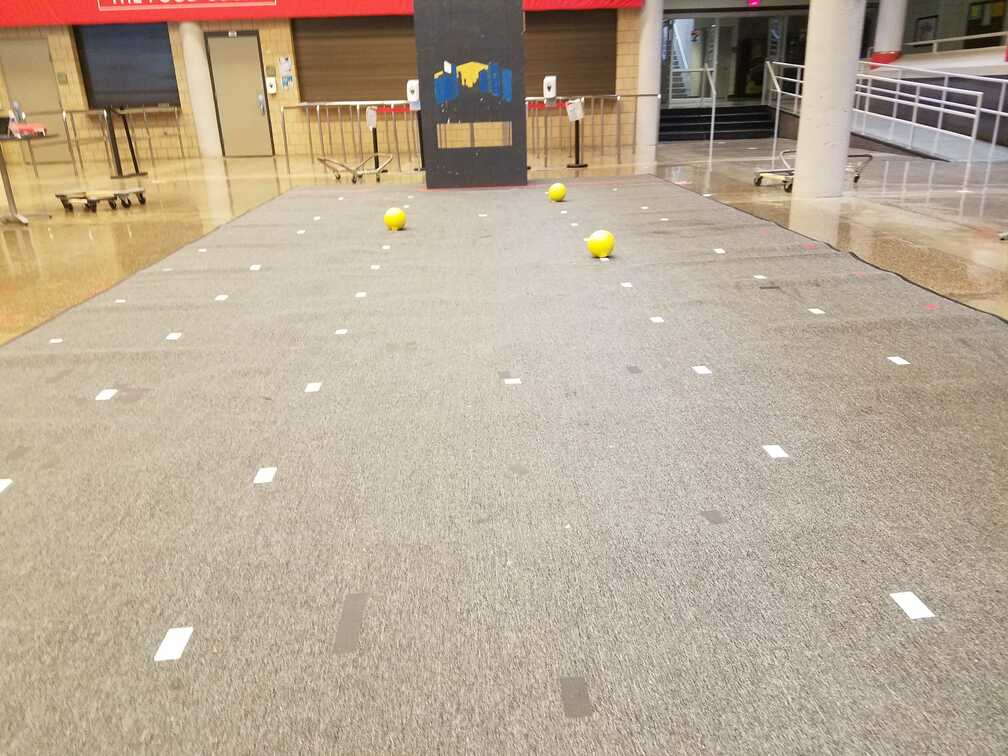
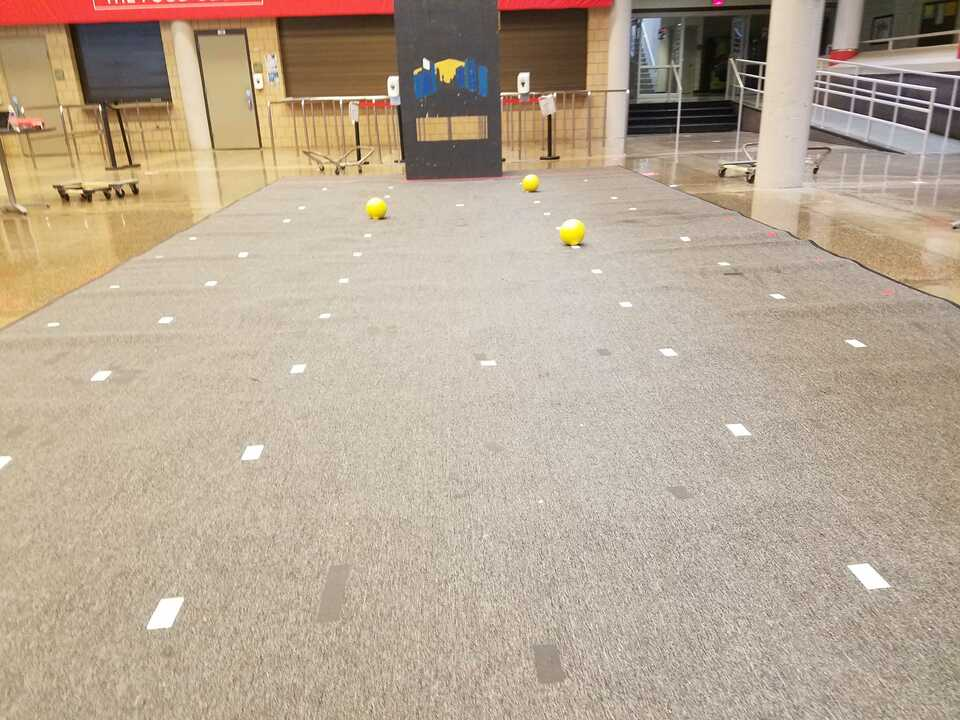
determine where the far balls are

Changed region(s): [[0.4375, 0.0917, 0.4688, 0.1222]]

diff --git a/testing_blob.py b/testing_blob.py
@@ -10,7 +10,7 @@ In the imread() line, use the IMAGE_NAME variable
 Then, run the program and press 'm' to predict the path
 '''
 #To find the predicted path, run the program and press 'm'
-IMAGE_NAME = 'from_robot.PNG'
+IMAGE_NAME = 'obj4.jpg'
 # path_options = [(479.89423077, 325.51442308), (619.56692913, 251.41994751), (408.97231834, 343.41176471), (523.62751678, 226.62080537)]
 path_options = blob_means
 
@@ -26,81 +26,105 @@ cv2.createTrackbar("UH", "Tracking", 255, 255, nothing)
 cv2.createTrackbar("US", "Tracking", 255, 255, nothing)
 cv2.createTrackbar("UV", "Tracking", 255, 255, nothing)
 
-# reading image
-img = cv2.imread(IMAGE_NAME, 1)
-hsv = cv2.cvtColor(img, cv2.COLOR_BGR2HSV)
+while True:
+    # reading image
+    img = cv2.imread(IMAGE_NAME, 1)
+    hsv = cv2.cvtColor(img, cv2.COLOR_BGR2HSV)
 
-# what to do with each vid frame
-l_h = cv2.getTrackbarPos("LH", "Tracking")
-l_s = cv2.getTrackbarPos("LS", "Tracking")
-l_v = cv2.getTrackbarPos("LV", "Tracking")
-h_h = cv2.getTrackbarPos("UH", "Tracking")
-h_s = cv2.getTrackbarPos("US", "Tracking")
-h_v = cv2.getTrackbarPos("UV", "Tracking")
+    # what to do with each vid frame
+    l_h = cv2.getTrackbarPos("LH", "Tracking")
+    l_s = cv2.getTrackbarPos("LS", "Tracking")
+    l_v = cv2.getTrackbarPos("LV", "Tracking")
+    h_h = cv2.getTrackbarPos("UH", "Tracking")
+    h_s = cv2.getTrackbarPos("US", "Tracking")
+    h_v = cv2.getTrackbarPos("UV", "Tracking")
 
-lower = np.array([0, 0, 200])
-upper = np.array([150, 255, 255])
+    # lower = np.array([0, 0, 200])
+    # upper = np.array([150, 255, 255])
 
-# lower = np.array([mean_l_h, mean_l_s, mean_l_v])
-# upper = np.array([mean_u_h, mean_u_s, mean_u_v])
+    # lower = np.array([mean_l_h, mean_l_s, mean_l_v])
+    # upper = np.array([mean_u_h, mean_u_s, mean_u_v])
 
-mask = cv2.inRange(img, lower, upper)
+    lower = np.array([0, 215, 235])
+    upper = np.array([255, 255, 255])
 
-kernel = np.ones((3, 3), np.uint8)
-opening_img = cv2.morphologyEx(mask, cv2.MORPH_CLOSE, kernel)
+    mask = cv2.inRange(img, lower, upper)
 
-points = cv2.findNonZero(mask)
-if cv2.countNonZero(mask) > 0:
-    avg = np.mean(points, axis=0)
-else:
-    avg = None
+    kernel = np.ones((3, 3), np.uint8)
+    opening_img = cv2.morphologyEx(mask, cv2.MORPH_CLOSE, kernel)
 
-# displaying
-params = cv2.SimpleBlobDetector_Params()
-params.filterByColor = False
-params.filterByArea = True
-params.minArea = 300
-params.filterByCircularity = False
-params.filterByInertia = False
-params.filterByConvexity = False
-detector = cv2.SimpleBlobDetector_create(params)
-keypoints = detector.detect(opening_img)
-sumX = 0
-sumY = 0
-count = 0
-for kp in keypoints:
-    count+=1
-    sumX+=kp.pt[0]
-    sumY+=kp.pt[1]
+    points = cv2.findNonZero(mask)
+    if cv2.countNonZero(mask) > 0:
+        avg = np.mean(points, axis=0)
+    else:
+        avg = None
 
-print(f'Blobs: {count}')
+    # displaying
+    params = cv2.SimpleBlobDetector_Params()
+    params.filterByColor = False
+    params.filterByCircularity = False
+    params.filterByConvexity = False
 
-print(str(sumX/3) + " " + str(sumY/3))
-means = (sumX/3, sumY/3)
-im_with_keypoints = cv2.drawKeypoints(opening_img, keypoints, np.array([]), (0, 0, 255),
-                                      cv2.DRAW_MATCHES_FLAGS_DRAW_RICH_KEYPOINTS)
-min_dist = -1
-index = -1
-for i in range(0, 4):
-    if distance.euclidean(path_options[i], means) < min_dist or min_dist == -1:
-        min_dist = distance.euclidean(path_options[i], means)
-        index = i
-print(f'Path # {index + 1}')
-print(min_dist)
-cv2.imshow('processed image', im_with_keypoints)
-k = cv2.waitKey(0)
-if k == ord('p'):
-    print(f'LH:{l_h} LS:{l_s} LV:{l_v} >>> UH:{h_h} US:{h_s} UV:{h_v}')
-elif k == ord('s'):
-    print(f'shape: {mask.shape}')
-elif k == ord('m'):
+    '''
+    Area needs to be between 100-500 if detecting the blue paths
+    '''
+    params.filterByArea = True
+    params.minArea = 100
+    params.maxArea = 500
+
+    '''
+    Inertia ratio between 0.3-1 if detecting blue paths
+    '''
+    params.filterByInertia = True
+    params.minInertiaRatio = 0.3
+    params.maxInertiaRatio = 1
+
+    detector = cv2.SimpleBlobDetector_create(params)
+    keypoints = detector.detect(opening_img)
+
+    far_points = []
+    for point in keypoints:
+        if point.pt[1]<=320 and point.pt[1]>=170:
+            if point.pt[0]<=580 and point.pt[0]>=140:
+                far_points.append(point)
+    sumX = 0
+    sumY = 0
+    count = 0
+    for kp in far_points:
+        count += 1
+        sumX += kp.pt[0]
+        sumY += kp.pt[1]
+
+    print(f'Far Blobs: {count}')
+    for point in far_points:
+        print(f'({point.pt[0], point.pt[1]})', sep='   ')
+
+    print(str(sumX / 3) + " " + str(sumY / 3))
+    means = (sumX / 3, sumY / 3)
+    im_with_keypoints = cv2.drawKeypoints(opening_img, keypoints, np.array([]), (0, 0, 255),
+                                          cv2.DRAW_MATCHES_FLAGS_DRAW_RICH_KEYPOINTS)
     min_dist = -1
     index = -1
     for i in range(0, 4):
-        if distance.euclidean(path_options[i], avg) < min_dist or min_dist == -1:
-            min_dist = distance.euclidean(path_options[i], avg)
+        if distance.euclidean(path_options[i], means) < min_dist or min_dist == -1:
+            min_dist = distance.euclidean(path_options[i], means)
             index = i
     print(f'Path # {index + 1}')
+    print(min_dist)
+    cv2.imshow('processed image', im_with_keypoints)
+    k = cv2.waitKey(1)
+    if k == ord('p'):
+        print(f'LH:{l_h} LS:{l_s} LV:{l_v} >>> UH:{h_h} US:{h_s} UV:{h_v}')
+    elif k == ord('s'):
+        print(f'shape: {mask.shape}')
+    elif k == ord('m'):
+        min_dist = -1
+        index = -1
+        for i in range(0, 4):
+            if distance.euclidean(path_options[i], avg) < min_dist or min_dist == -1:
+                min_dist = distance.euclidean(path_options[i], avg)
+                index = i
+        print(f'Path # {index + 1}')
 
 
 cv2.destroyAllWindows()

diff --git a/means.py b/means.py
@@ -1,9 +1,9 @@
 import numpy as np
 
 mean_l_h = 0
-LS = [224,230,232,225]
-LV = [237,245,242,240]
-UH = [40,105,85,82]
+LS = [224,230,232,225] #227.75
+LV = [237,245,242,240] #241
+UH = [40,105,85,82] #78
 mean_u_s = 255
 mean_u_v = 255
 
